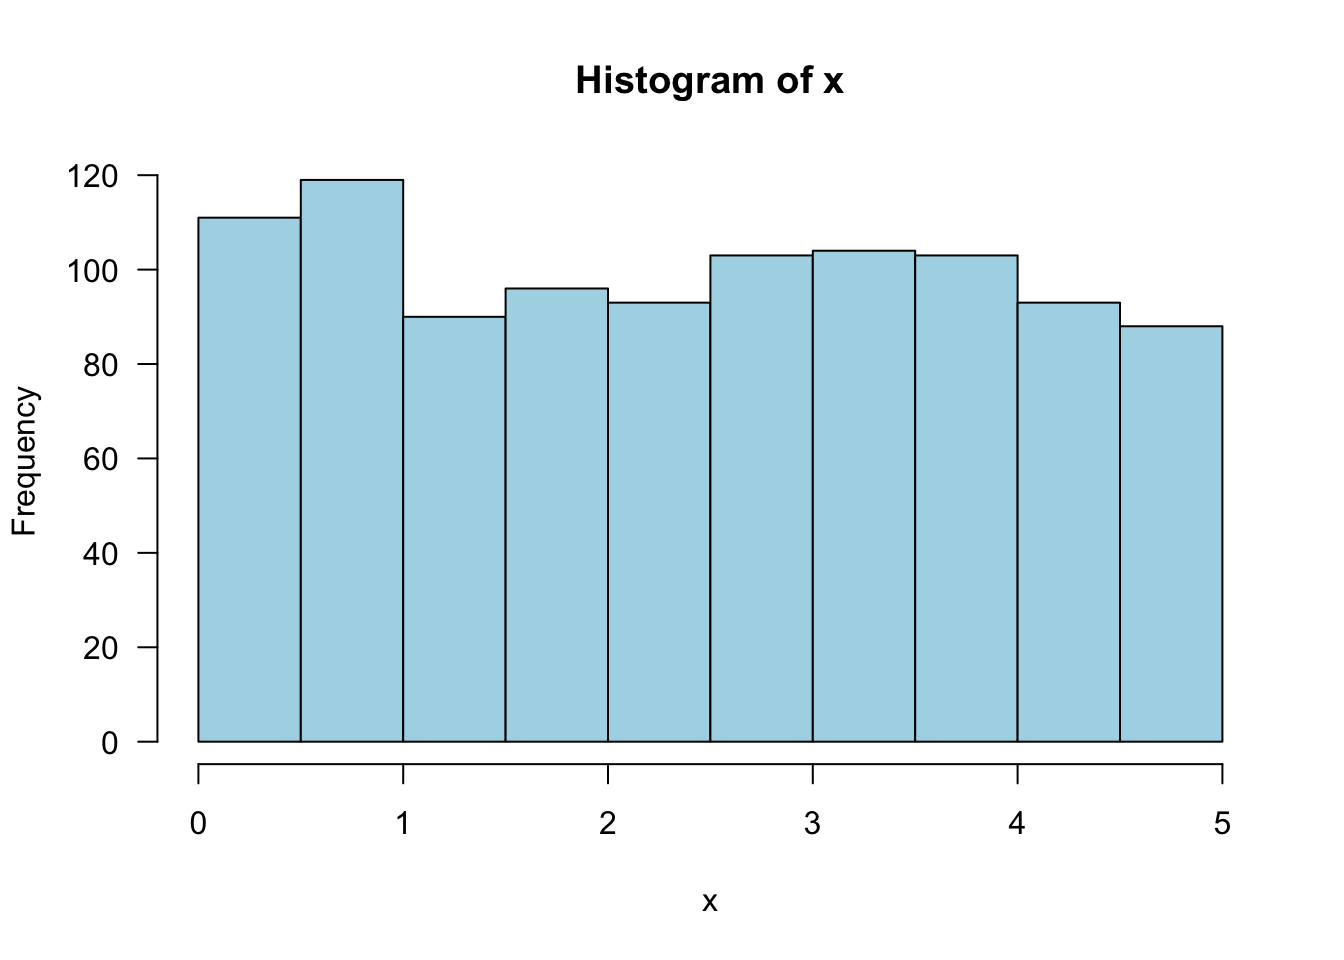
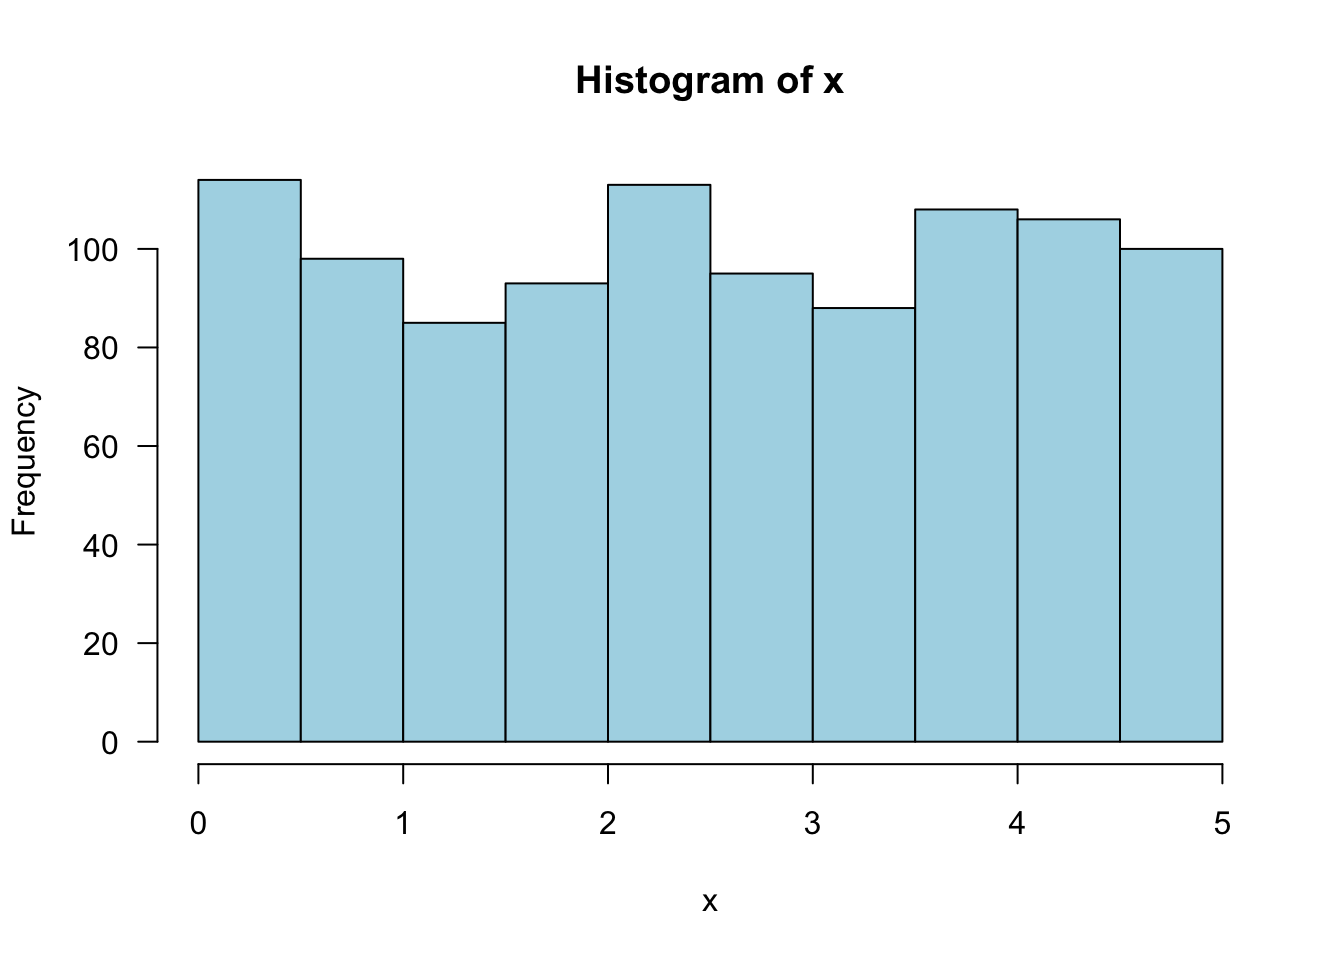
Add Bayesville link

diff --git a/docs/ch-4-continuous-random-variables-and-probability-distributions.html b/docs/ch-4-continuous-random-variables-and-probability-distributions.html
@@ -25,7 +25,7 @@
 <meta name="author" content="Joyce Robbins">
 
 
-<meta name="date" content="2019-03-28">
+<meta name="date" content="2019-04-22">
 
   <meta name="viewport" content="width=device-width, initial-scale=1">
   <meta name="apple-mobile-web-app-capable" content="yes">
@@ -271,11 +271,11 @@ code span.wa { color: #60a0b0; font-weight: bold; font-style: italic; } /* Warni
 <p>Randomly choose one number from the distribution:</p>
 <p><span class="math inline">\(f(x) = .2\)</span> for <span class="math inline">\(0 \leq x \leq 5\)</span>, 0 otherwise.</p>
 <pre class="sourceCode r"><code class="sourceCode r"><span class="kw">runif</span>(<span class="dt">n =</span> <span class="dv">1</span>, <span class="dt">min =</span> <span class="dv">0</span>, <span class="dt">max =</span> <span class="dv">5</span>)</code></pre>
-<pre><code>## [1] 4.443641</code></pre>
+<pre><code>## [1] 4.965828</code></pre>
 <p>Take the average of 1000 picks:</p>
 <pre class="sourceCode r"><code class="sourceCode r">x &lt;-<span class="st"> </span><span class="kw">runif</span>(<span class="dt">n =</span> <span class="dv">1000</span>, <span class="dt">min =</span> <span class="dv">0</span>, <span class="dt">max =</span> <span class="dv">5</span>)
 <span class="kw">mean</span>(x)</code></pre>
-<pre><code>## [1] 2.431912</code></pre>
+<pre><code>## [1] 2.507849</code></pre>
 <p>Draw a histogram of the 1000 picks:</p>
 <pre class="sourceCode r"><code class="sourceCode r"><span class="kw">hist</span>(x, <span class="dt">las =</span> <span class="dv">1</span>, <span class="dt">col =</span> <span class="st">&quot;lightblue&quot;</span>)</code></pre>
 <p><img src="STAT1201-resource_files/figure-html/unnamed-chunk-29-1.png" width="672" /></p>

diff --git a/docs/ch-2-conditional-probability.html b/docs/ch-2-conditional-probability.html
@@ -25,7 +25,7 @@
 <meta name="author" content="Joyce Robbins">
 
 
-<meta name="date" content="2019-03-28">
+<meta name="date" content="2019-04-22">
 
   <meta name="viewport" content="width=device-width, initial-scale=1">
   <meta name="apple-mobile-web-app-capable" content="yes">
@@ -264,6 +264,9 @@ code span.wa { color: #60a0b0; font-weight: bold; font-style: italic; } /* Warni
 <p>Section covered: 2.4</p>
 <div id="resources" class="section level2 unnumbered">
 <h2>Resources</h2>
+<iframe width="400" height="225" src="https://www.youtube.com/embed/otdaJPVQIgg" frameborder="0" allow="accelerometer; autoplay; encrypted-media; gyroscope; picture-in-picture" allowfullscreen>
+</iframe>
+<p>(Posted on Twitter as a <a href="https://twitter.com/stat110/status/1118554150562869248">response</a> to Bill Gates’ <a href="https://twitter.com/BillGates/status/1118196606975787008">provocative comment</a> that he’d rather encounter a shark than a mosquito in the wild.)</p>
 <p><a href="https://betterexplained.com/articles/an-intuitive-and-short-explanation-of-bayes-theorem/">An Intuitive (and Short) Explanation of Bayes’ Theorem</a></p>
 
 </div>

diff --git a/docs/ch-7-statistical-intervals-based-on-a-single-sample.html b/docs/ch-7-statistical-intervals-based-on-a-single-sample.html
@@ -25,7 +25,7 @@
 <meta name="author" content="Joyce Robbins">
 
 
-<meta name="date" content="2019-03-28">
+<meta name="date" content="2019-04-22">
 
   <meta name="viewport" content="width=device-width, initial-scale=1">
   <meta name="apple-mobile-web-app-capable" content="yes">
@@ -275,6 +275,7 @@ code span.wa { color: #60a0b0; font-weight: bold; font-style: italic; } /* Warni
 </div>
 <div id="intervals-based-on-a-normal-population-distribution" class="section level2 unnumbered">
 <h2>7.3 Intervals Based on a Normal Population Distribution</h2>
+<p>Use the <span class="math inline">\(t\)</span> distributions.</p>
 <p>Skip “A Prediction Interval for a Single Future Value” p. 299 to the end of the section</p>
 
 </div>

diff --git a/docs/index.html b/docs/index.html
@@ -25,7 +25,7 @@
 <meta name="author" content="Joyce Robbins">
 
 
-<meta name="date" content="2019-03-28">
+<meta name="date" content="2019-04-22">
 
   <meta name="viewport" content="width=device-width, initial-scale=1">
   <meta name="apple-mobile-web-app-capable" content="yes">
@@ -262,7 +262,7 @@ code span.wa { color: #60a0b0; font-weight: bold; font-style: italic; } /* Warni
 <div id="header">
 <h1 class="title">Stat 1201 Supplemental Materials</h1>
 <p class="author"><em>Joyce Robbins</em></p>
-<p class="date"><em>2019-03-28</em></p>
+<p class="date"><em>2019-04-22</em></p>
 </div>
 <div id="introduction" class="section level1 unnumbered">
 <h1>Introduction</h1>

diff --git a/docs/ch-1-descriptive-statistics.html b/docs/ch-1-descriptive-statistics.html
@@ -25,7 +25,7 @@
 <meta name="author" content="Joyce Robbins">
 
 
-<meta name="date" content="2019-03-28">
+<meta name="date" content="2019-04-22">
 
   <meta name="viewport" content="width=device-width, initial-scale=1">
   <meta name="apple-mobile-web-app-capable" content="yes">

diff --git a/docs/ch-12-linear-regression.html b/docs/ch-12-linear-regression.html
@@ -25,7 +25,7 @@
 <meta name="author" content="Joyce Robbins">
 
 
-<meta name="date" content="2019-03-28">
+<meta name="date" content="2019-04-22">
 
   <meta name="viewport" content="width=device-width, initial-scale=1">
   <meta name="apple-mobile-web-app-capable" content="yes">

diff --git a/docs/ch-13-nonlinear-and-multiple-regression.html b/docs/ch-13-nonlinear-and-multiple-regression.html
@@ -25,7 +25,7 @@
 <meta name="author" content="Joyce Robbins">
 
 
-<meta name="date" content="2019-03-28">
+<meta name="date" content="2019-04-22">
 
   <meta name="viewport" content="width=device-width, initial-scale=1">
   <meta name="apple-mobile-web-app-capable" content="yes">

diff --git a/docs/ch-14-chi-squared-test.html b/docs/ch-14-chi-squared-test.html
@@ -25,7 +25,7 @@
 <meta name="author" content="Joyce Robbins">
 
 
-<meta name="date" content="2019-03-28">
+<meta name="date" content="2019-04-22">
 
   <meta name="viewport" content="width=device-width, initial-scale=1">
   <meta name="apple-mobile-web-app-capable" content="yes">

diff --git a/docs/ch-2-probability.html b/docs/ch-2-probability.html
@@ -25,7 +25,7 @@
 <meta name="author" content="Joyce Robbins">
 
 
-<meta name="date" content="2019-03-28">
+<meta name="date" content="2019-04-22">
 
   <meta name="viewport" content="width=device-width, initial-scale=1">
   <meta name="apple-mobile-web-app-capable" content="yes">

diff --git a/docs/ch-3-discrete-distributions.html b/docs/ch-3-discrete-distributions.html
@@ -25,7 +25,7 @@
 <meta name="author" content="Joyce Robbins">
 
 
-<meta name="date" content="2019-03-28">
+<meta name="date" content="2019-04-22">
 
   <meta name="viewport" content="width=device-width, initial-scale=1">
   <meta name="apple-mobile-web-app-capable" content="yes">

diff --git a/docs/ch-5-joint-probability.html b/docs/ch-5-joint-probability.html
@@ -25,7 +25,7 @@
 <meta name="author" content="Joyce Robbins">
 
 
-<meta name="date" content="2019-03-28">
+<meta name="date" content="2019-04-22">
 
   <meta name="viewport" content="width=device-width, initial-scale=1">
   <meta name="apple-mobile-web-app-capable" content="yes">

diff --git a/docs/ch-5-random-samples.html b/docs/ch-5-random-samples.html
@@ -25,7 +25,7 @@
 <meta name="author" content="Joyce Robbins">
 
 
-<meta name="date" content="2019-03-28">
+<meta name="date" content="2019-04-22">
 
   <meta name="viewport" content="width=device-width, initial-scale=1">
   <meta name="apple-mobile-web-app-capable" content="yes">
